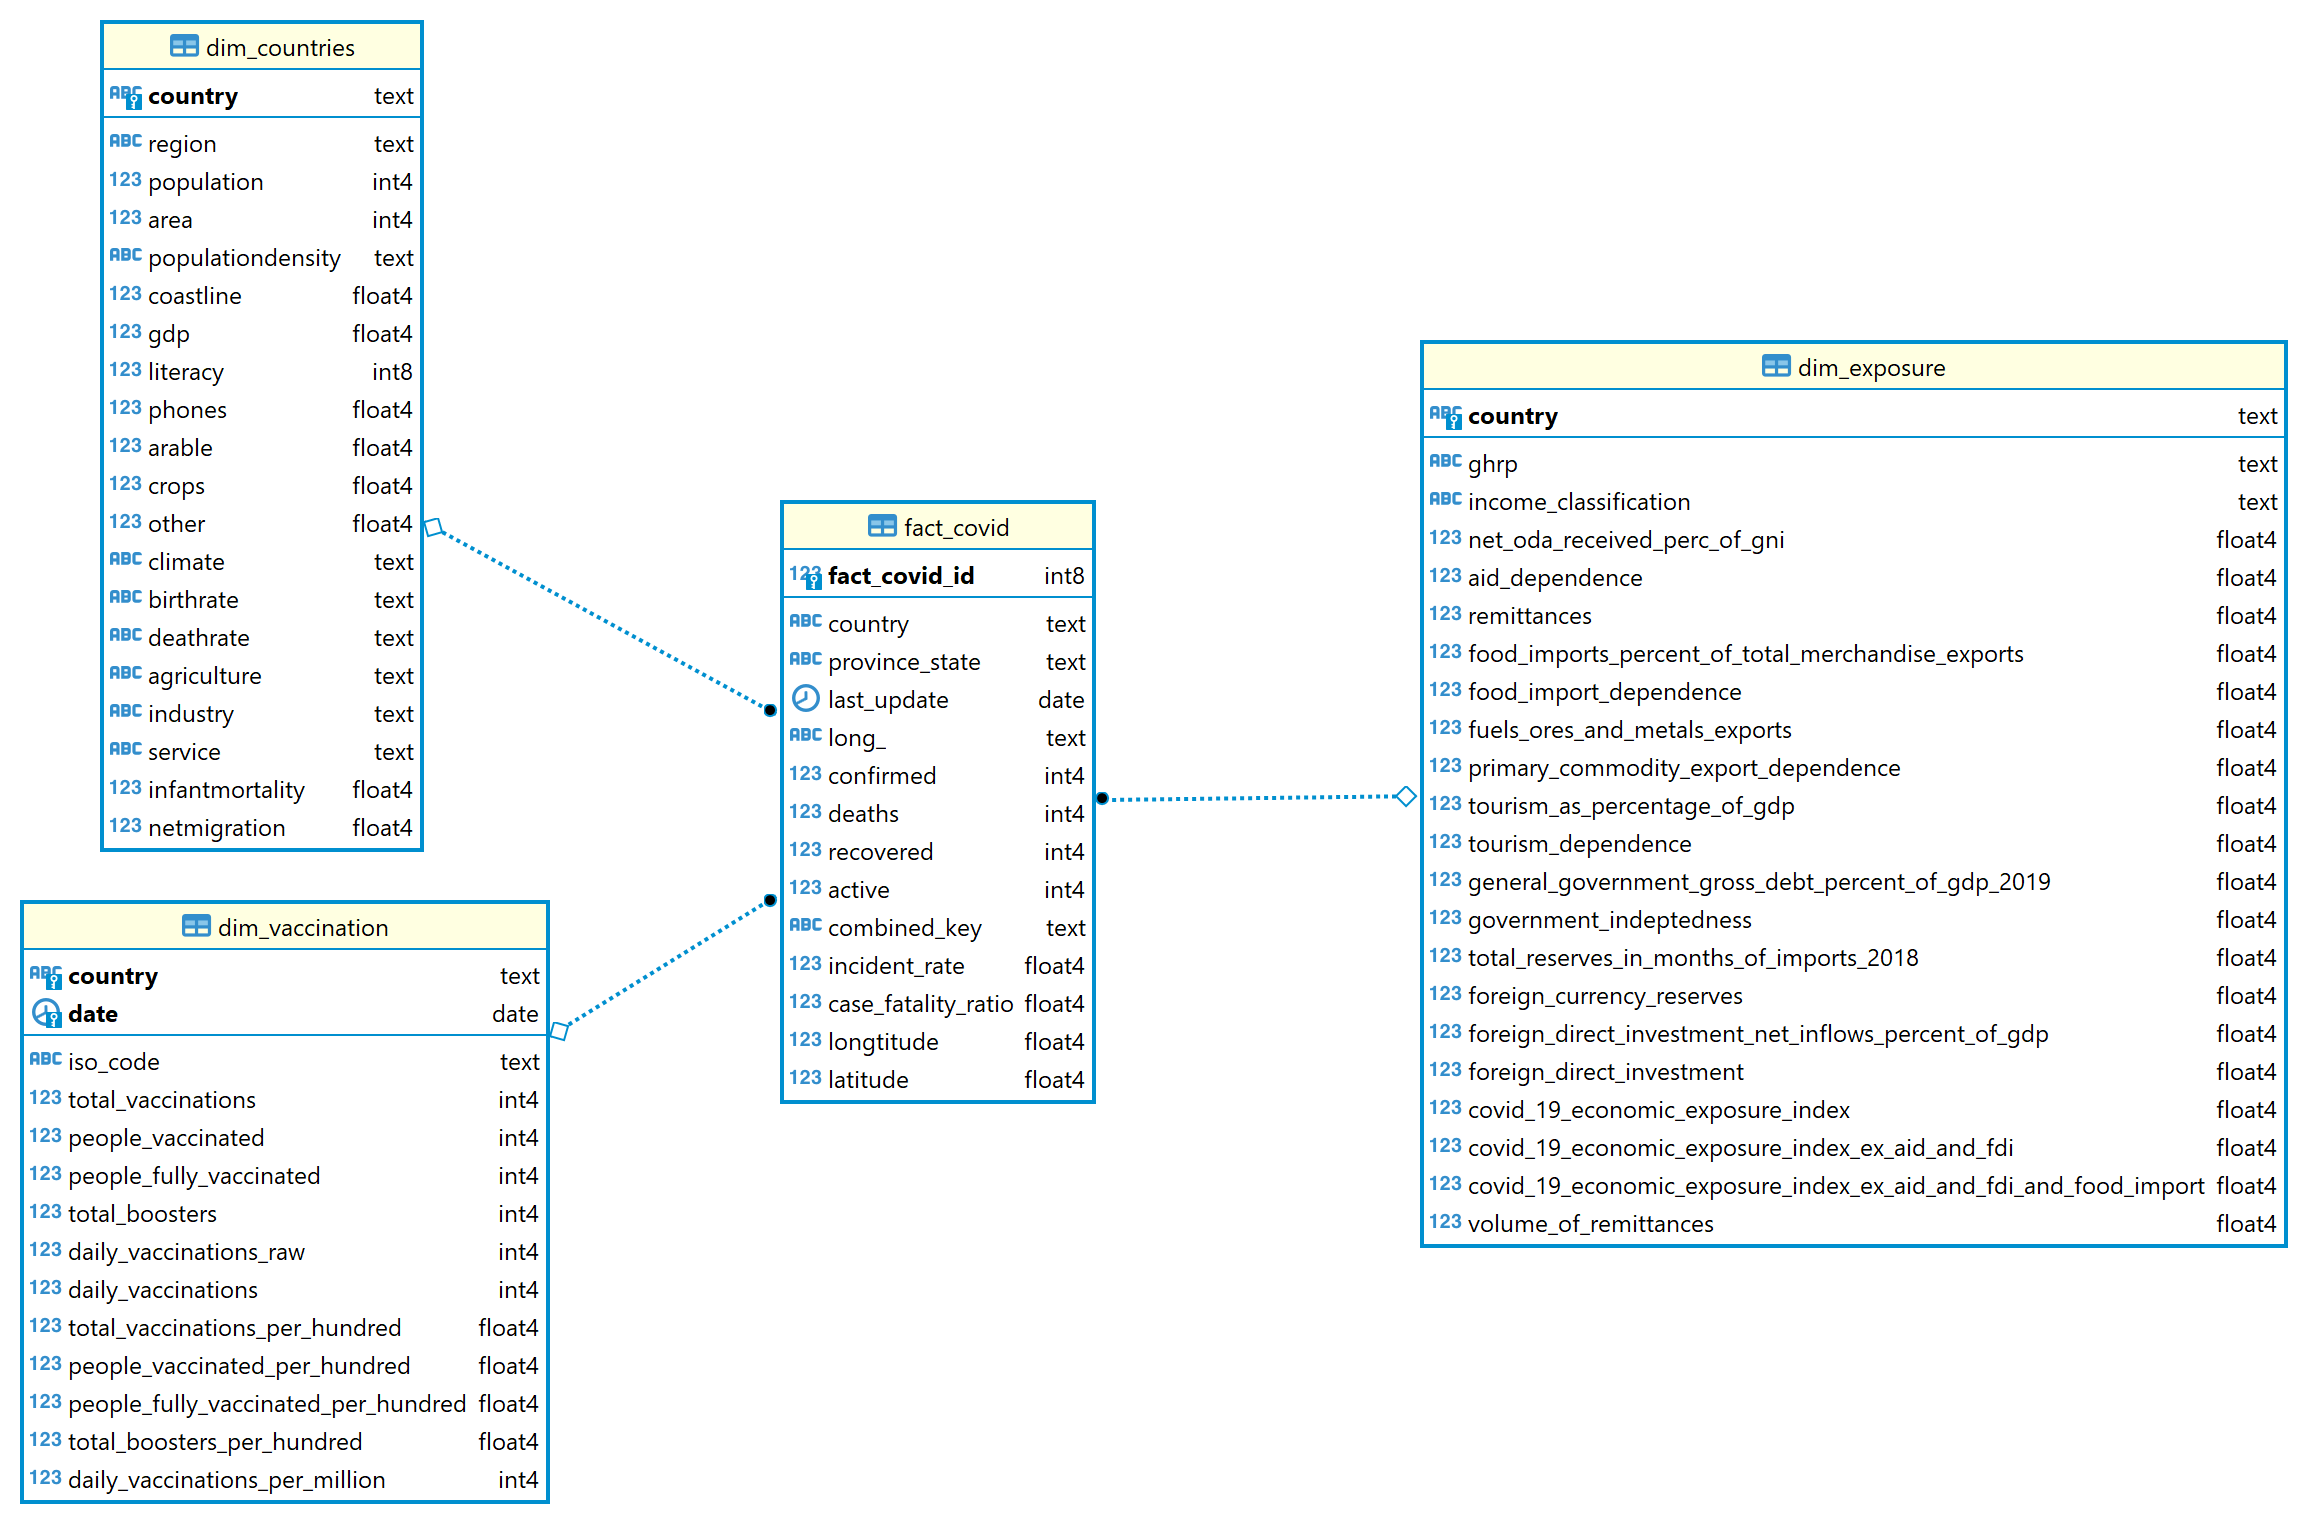
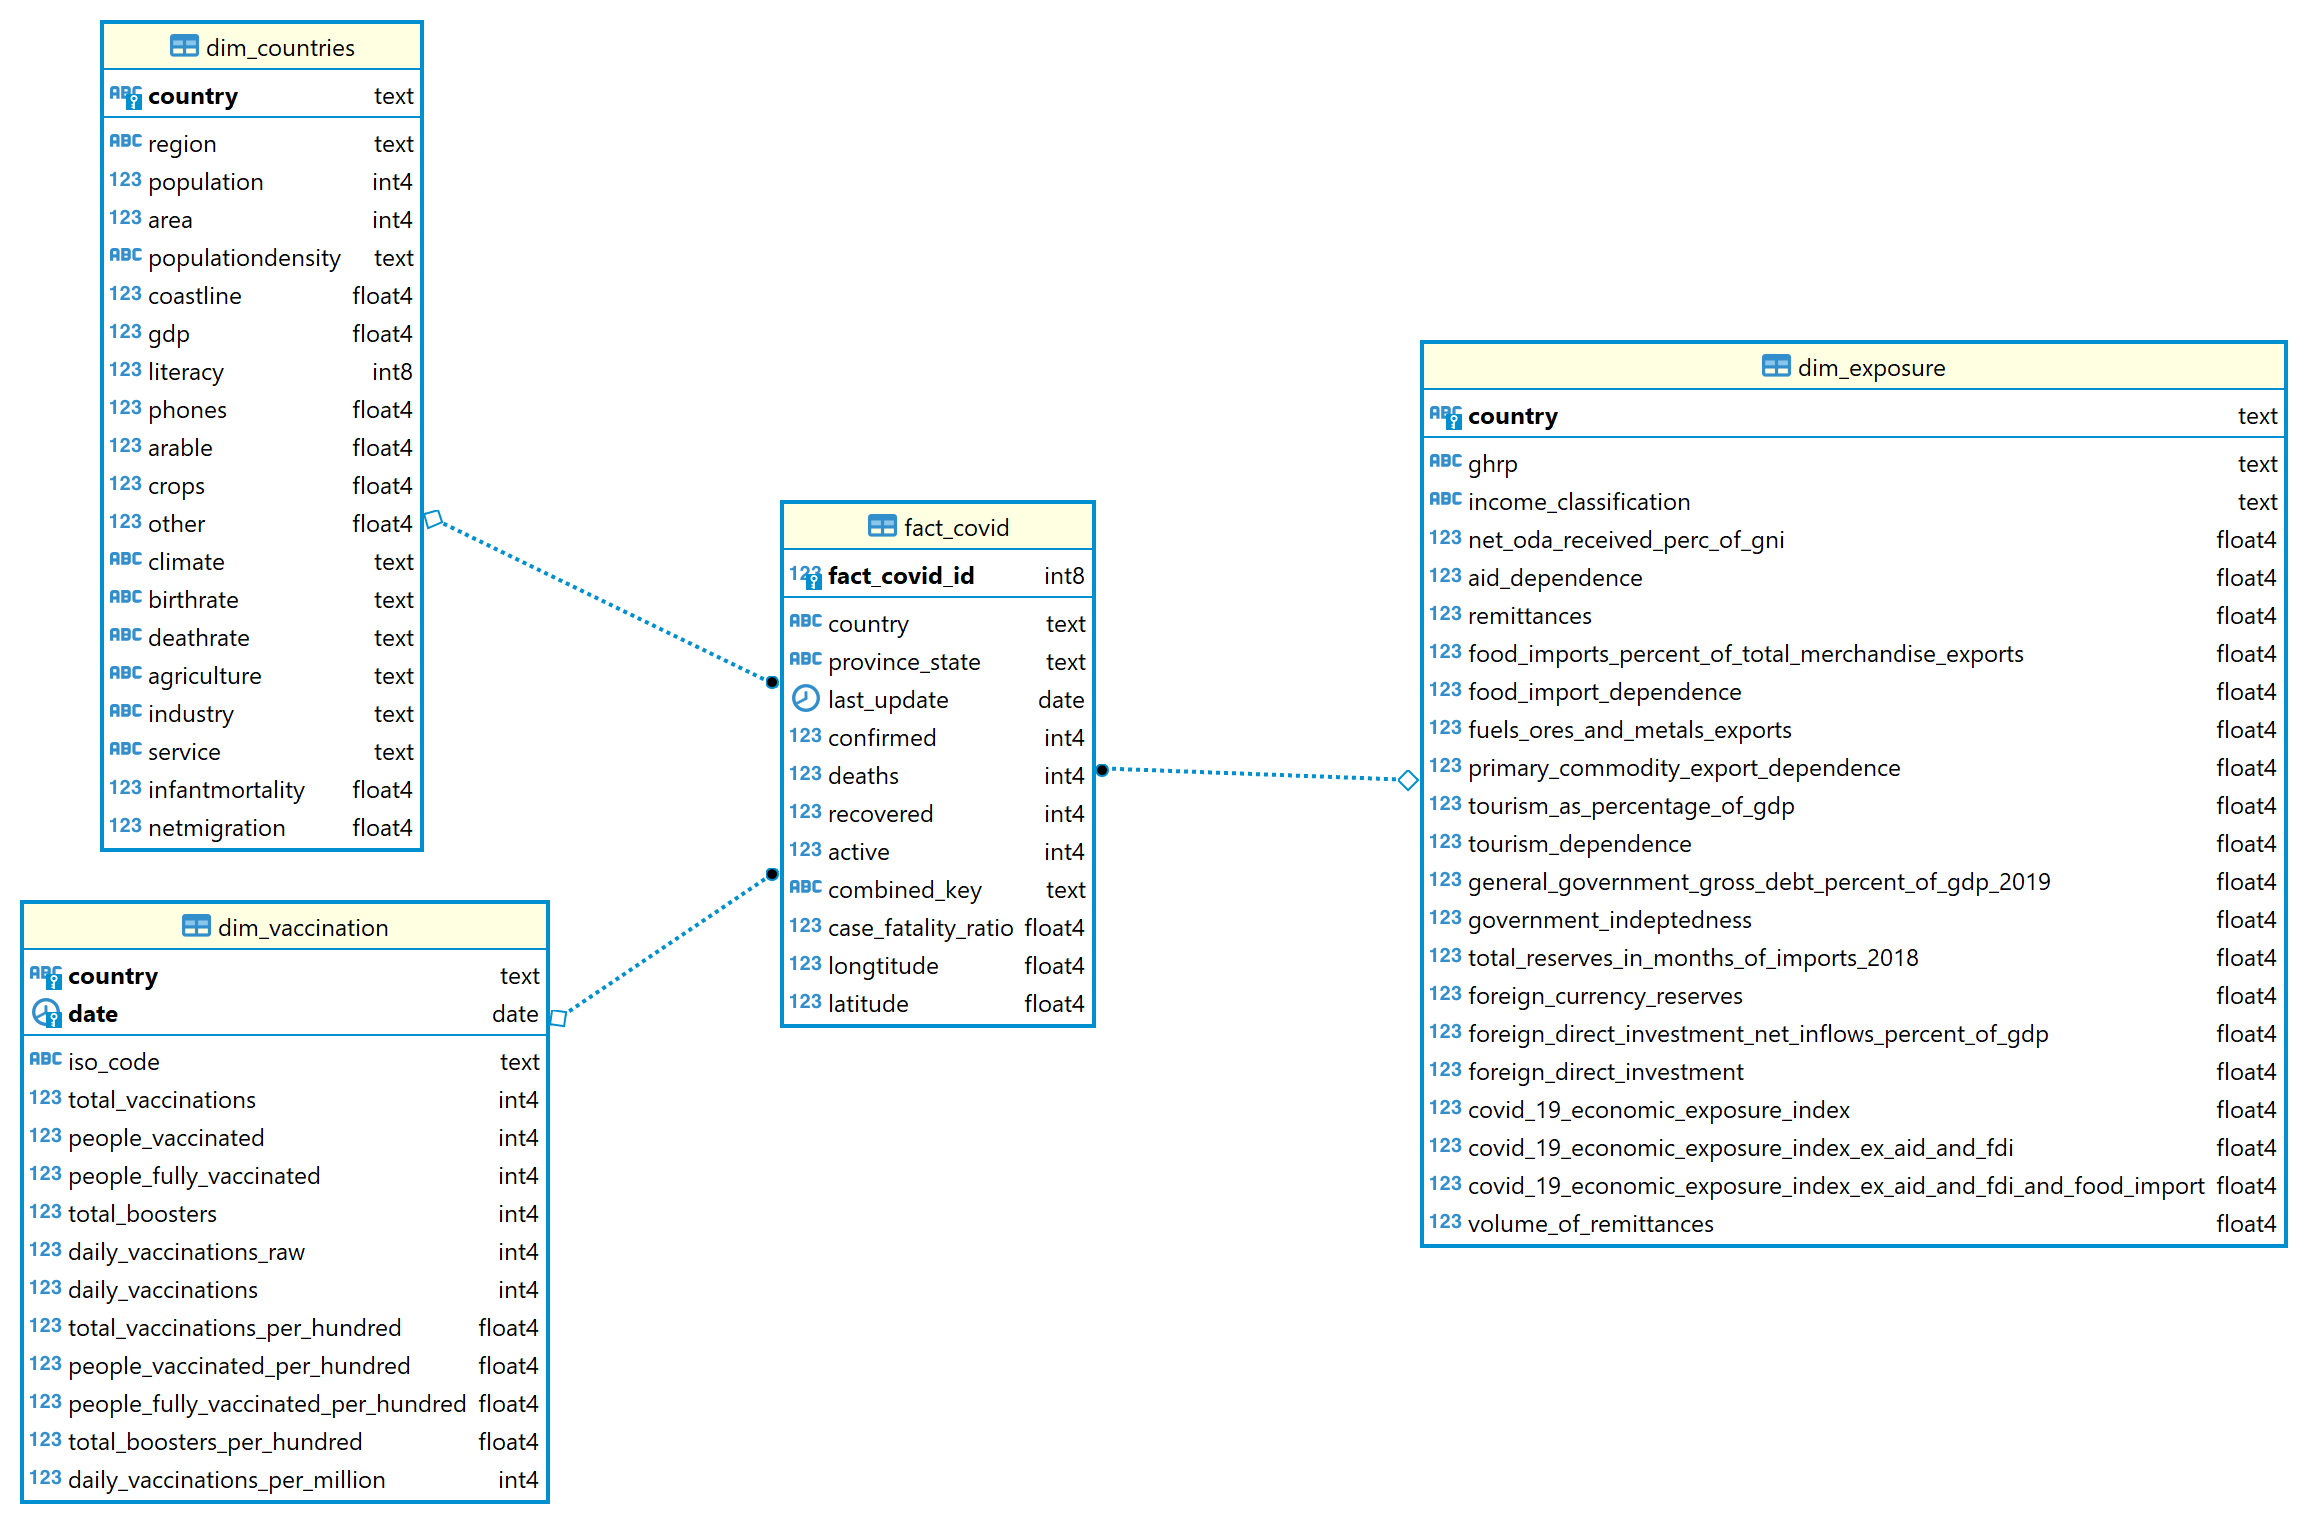
new erd and cleanup of sql queries

diff --git a/6. Capstone Project/covid_processing.py b/6. Capstone Project/covid_processing.py
@@ -134,7 +134,8 @@ def get_countries(file_path, spark, table, db_url, db_user, db_password):
         .withColumn("Arable", col("Arable").cast("float")) \
         .withColumn("Crops", col("Crops").cast("float")) \
         .withColumn("Other", col("Other").cast("float")) \
-        .drop("Net migration", "Infant mortality") \
+        .drop("Net migration", "Infant mortality", "Coastline",\
+            "literacy", "phones","arable","crops","other") \
         .write \
         .mode("append") \
         .format("jdbc") \
@@ -143,7 +144,6 @@ def get_countries(file_path, spark, table, db_url, db_user, db_password):
         .option("user", db_user) \
         .option("password", db_password) \
         .save()
-
 
 def get_exposure(file_path, spark, table, db_url, db_user, db_password):
 

diff --git a/6. Capstone Project/sql_queries.py b/6. Capstone Project/sql_queries.py
@@ -13,21 +13,13 @@ dim_countries_create = ("""
         Population integer,
         Area integer,
         PopulationDensity text,
-        Coastline real,
         GDP real,
-        Literacy bigint,
-        Phones real,
-        Arable real,
-        Crops real,
-        Other real,
         Climate text,
         Birthrate text,
         Deathrate text,
         Agriculture text,
         Industry text,
         Service text,
-        InfantMortality real,
-        NetMigration real
     );
 """)
 

diff --git a/6. Capstone Project/results/Q3.md b/6. Capstone Project/results/Q3.md
@@ -1,4 +1,4 @@
-# Q3: total confirmed per income classification
+# Q3: total confirmed cases per income classification
 
 (HIC: High InCome, MIC: Middle InCome, LIC: Low InCome)
 
